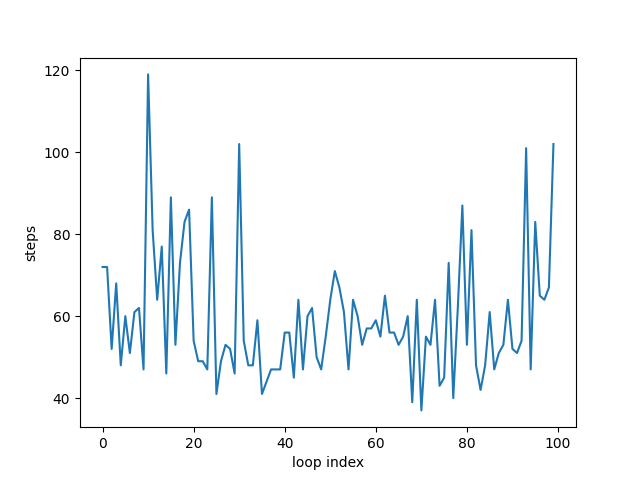
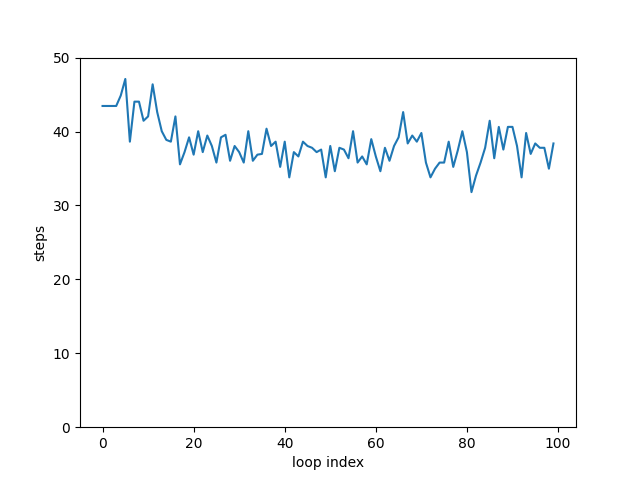
[feats] finish AC

diff --git a/course/high-ai/AC/py/main.py b/course/high-ai/AC/py/main.py
@@ -1,4 +1,4 @@
-from utils import config,abs_distance
+from utils import config,abs_distance,get_path_length
 from copy import deepcopy
 import numpy as np
 import matplotlib.pyplot as plt
@@ -24,6 +24,8 @@ def read_space():
 SPACE, START, END = read_space()
 # 初始化信息素矩阵
 tau = np.ones_like(SPACE, dtype=np.float32)*8
+# 下一轮要增加的信息素
+next_tau_plus = np.ones_like(tau)
 
 class Ant:
     def __init__(self, pos) -> None:
@@ -35,8 +37,8 @@ class Ant:
     def move(self):
         # 蚂蚁移动一步,允许斜走，8种可能的移动方法
         possible_next_pos = []
-        for idx in range(-1, 2):
-            for jdx in range(-1, 2):
+        for idx in range(1, -2, -1):
+            for jdx in range(1, -2, -1):
                 # 不允许不移动
                 if idx==0 and jdx==0:
                     continue
@@ -57,8 +59,8 @@ class Ant:
             new_x, new_y = next_pos
             # alpha: 信息素重要程度，beta:启发式信息重要程度
             # 这里的启发式信息取当前点到目标点的直线距离的倒数
-            dis_score = 1/abs_distance(new_x, new_y, END[0], END[1]) if next_pos !=END else 100
-            score = config.Alpha*tau[new_x, new_y]+config.Beta*dis_score
+            dis_score = 1/abs_distance((new_x, new_y), (END[0], END[1])) if next_pos !=END else 100
+            score = (tau[new_x, new_y]**config.Alpha)*(dis_score**config.Beta)
             scores.append(score)
         # 对得分归一化
         scores = np.array(scores)/np.sum(scores)
@@ -77,51 +79,59 @@ class Ant:
         # 如果到达终点，留下信息素
         if self.pos==END:
             for idx, pos in enumerate(self.path):
-                tau[pos]+=config.Q/(idx+1)
+                next_tau_plus[pos]+=config.Q/(idx+1)
             return self.path, False
         return None, True
     
 
 def main():
-    path_length = []
-    minium_path = None
-    minium_path_length = np.inf
-    global tau
-    ants = [Ant(START) for _ in range(config.ants_num)]
+    path_lengths = []
+    paths = []
+    global_minium_path = None
+    global tau, next_tau_plus
     for loop_idx in range(config.loop):
+        loop_minium_path = None
+        loop_minium_path_length = np.inf
         for _ in range(config.ants_num):
             ant_loop = True
             ant = Ant(START)
             while ant_loop:
                 path, ant_loop = ant.move()
                 if path is not None:
-                    path_length.append((loop_idx, len(path)))
-                    if len(path)<minium_path_length:
-                        minium_path_length = len(path)
-                        minium_path = path
-
-        # 信息素挥发
-        tau = (1-config.Rho)*tau
+                    path_length = get_path_length(path)
+                    if loop_minium_path is None or path_length<loop_minium_path_length:
+                        loop_minium_path = path
+                        loop_minium_path_length = get_path_length(loop_minium_path)
+        # 信息素挥发并增加
+        tau = (1-config.Rho)*tau+next_tau_plus
+        next_tau_plus = np.zeros_like(tau)
+        if loop_minium_path is not None:
+            paths.append(loop_minium_path)
+            path_lengths.append((loop_idx, loop_minium_path_length))
+            if global_minium_path is None or loop_minium_path_length<get_path_length(global_minium_path):
+                global_minium_path = loop_minium_path
+    
     # 绘制收敛曲线
-    loop_idx = [item[0] for item in path_length]
-    old_steps = [item[1] for item in path_length]
+    loop_idx = [item[0] for item in path_lengths]
+    old_steps = [item[1] for item in path_lengths]
     steps = []
     slow_ptr = 0
     for i in range(config.loop):
         steps.append(old_steps[slow_ptr])
         if i>loop_idx[slow_ptr] and slow_ptr<len(loop_idx)-1:
             slow_ptr+=1
-    # plt.plot(list(range(config.loop)), steps)
-    # plt.xlabel("loop index")
-    # plt.ylabel("steps")
-    # plt.savefig("conver.png")
+    plt.plot(list(range(config.loop)), steps)
+    plt.xlabel("loop index")
+    plt.ylabel("steps")
+    plt.ylim(0, 50)
+    plt.savefig("conver.png")
     # 打印路线图
-    print(minium_path)
-    print(f"min length:{minium_path_length}")
+    print(global_minium_path)
+    print(f"min length:{get_path_length(global_minium_path)}")
     rst = SPACE.tolist()
-    for dot_idx in range(len(minium_path)-1):
-        old_x, old_y = minium_path[dot_idx]
-        new_x, new_y = minium_path[dot_idx+1]
+    for dot_idx in range(len(global_minium_path)-1):
+        old_x, old_y = global_minium_path[dot_idx]
+        new_x, new_y = global_minium_path[dot_idx+1]
 
         if new_x>old_x and new_y>old_y:
             rst[old_x][old_y]="↘"

diff --git a/course/high-ai/AC/py/utils.py b/course/high-ai/AC/py/utils.py
@@ -1,6 +1,7 @@
 import json
 import os
 import numpy as np
+from functools import reduce
 
 CONFIG_PATH = os.path.join(
     os.path.dirname(os.path.abspath(__file__)), "../resources/config.json"
@@ -59,8 +60,19 @@ def get_config(config_path):
 
 config = get_config(CONFIG_PATH)
 
-def abs_distance(x1, y1, x2, y2):
+def abs_distance(dot1, dot2):
+    x1, y1 = dot1
+    x2, y2 = dot2
     return np.power((x1-x2)**2+(y1-y2)**2 , 0.5)
+
+def get_path_length(path):
+    # 计算path长度
+    if len(path) in [0, 1]:
+        return 0
+    rst = 0
+    for idx in range(len(path)-1):
+        rst += abs_distance(path[idx], path[idx+1])
+    return rst
 
 
 if __name__ == "__main__":

diff --git a/course/high-ai/AC/README.md b/course/high-ai/AC/README.md
@@ -1,2 +1,62 @@
 # 蚁群算法(Ant colony)
 > matlab代码来源于老师，这里对照实现python版
+## Requirements
+```
+numpy
+matplotlib
+```
+## Usage
+```
+python py/main.py
+```
+## matlab版本的不足之处
+- 大幅优化了算法效率与可读性。
+- 分离参数配置到config.json中。
+- matplotlib绘制方形图困难，故打印迷宫走法。
+## 结果
+![conver](conver.png)
+```
+min length:30.970562748477146
+↓ 0 0 0 0 0 1 1 1 0 0 0 0 0 0 0 0 0 0 0
+↓ 1 1 0 0 0 1 1 1 0 0 0 0 0 0 0 0 0 0 0
+↘ 1 1 0 0 0 1 1 1 0 0 0 0 0 0 0 0 0 0 0
+0 ↘ 0 0 0 0 1 1 1 0 0 0 0 0 0 0 0 0 0 0
+0 0 → ↘ 0 0 1 1 1 0 0 0 0 0 0 0 0 0 0 0
+0 1 1 1 ↓ 0 1 1 1 0 0 0 0 0 0 0 0 0 0 0
+0 1 1 1 ↘ 0 1 1 1 0 0 0 0 0 0 0 0 0 0 0
+0 1 1 1 0 ↘ 1 1 1 0 1 1 1 1 0 0 0 0 0 0
+0 1 1 1 0 0 ↓ 0 0 0 1 1 1 1 0 0 0 0 0 0
+0 0 0 0 0 0 ↓ 0 0 0 1 1 1 1 0 0 0 0 0 0
+0 0 0 0 0 0 ↓ 1 1 1 1 1 1 1 0 0 0 0 0 0
+0 0 0 0 0 0 ↘ 1 1 1 1 1 1 1 0 0 0 0 0 0
+0 0 0 0 0 0 0 ↘ 0 0 0 1 1 1 0 1 1 1 1 0
+0 0 0 0 0 0 0 0 → ↓ 0 1 1 1 0 1 1 1 1 0
+1 1 1 1 0 0 0 0 0 → → ↘ 1 1 0 1 1 1 1 0
+1 1 1 1 0 0 1 1 1 1 1 1 ↘ 0 0 0 0 0 0 0
+0 0 0 0 0 0 1 1 1 1 1 1 0 ↘ 0 0 0 1 1 0
+0 0 0 0 0 0 0 0 0 0 1 1 0 0 ↘ 0 0 1 1 0
+0 0 0 0 0 0 0 0 0 0 1 1 0 0 1 → ↘ 0 0 0
+0 0 0 0 0 0 0 0 0 0 1 1 0 0 0 0 0 → → 3
+或
+min length:30.970562748477146
+→ → ↘ 0 0 0 1 1 1 0 0 0 0 0 0 0 0 0 0 0
+0 1 1 ↓ 0 0 1 1 1 0 0 0 0 0 0 0 0 0 0 0
+0 1 1 ↘ 0 0 1 1 1 0 0 0 0 0 0 0 0 0 0 0
+0 0 0 0 ↓ 0 1 1 1 0 0 0 0 0 0 0 0 0 0 0
+0 0 0 0 ↘ 0 1 1 1 0 0 0 0 0 0 0 0 0 0 0
+0 1 1 1 0 ↓ 1 1 1 0 0 0 0 0 0 0 0 0 0 0
+0 1 1 1 0 ↓ 1 1 1 0 0 0 0 0 0 0 0 0 0 0
+0 1 1 1 0 ↓ 1 1 1 0 1 1 1 1 0 0 0 0 0 0
+0 1 1 1 0 ↘ 0 0 0 0 1 1 1 1 0 0 0 0 0 0
+0 0 0 0 0 0 ↓ 0 0 0 1 1 1 1 0 0 0 0 0 0
+0 0 0 0 0 0 ↓ 1 1 1 1 1 1 1 0 0 0 0 0 0
+0 0 0 0 0 0 ↘ 1 1 1 1 1 1 1 0 0 0 0 0 0
+0 0 0 0 0 0 0 ↘ 0 0 0 1 1 1 0 1 1 1 1 0
+0 0 0 0 0 0 0 0 ↘ 0 0 1 1 1 0 1 1 1 1 0
+1 1 1 1 0 0 0 0 0 → → ↘ 1 1 0 1 1 1 1 0
+1 1 1 1 0 0 1 1 1 1 1 1 ↘ 0 0 0 0 0 0 0
+0 0 0 0 0 0 1 1 1 1 1 1 0 ↘ 0 0 0 1 1 0
+0 0 0 0 0 0 0 0 0 0 1 1 0 0 ↘ 0 0 1 1 0
+0 0 0 0 0 0 0 0 0 0 1 1 0 0 1 ↘ 0 0 0 0
+0 0 0 0 0 0 0 0 0 0 1 1 0 0 0 0 → → → 3
+```
